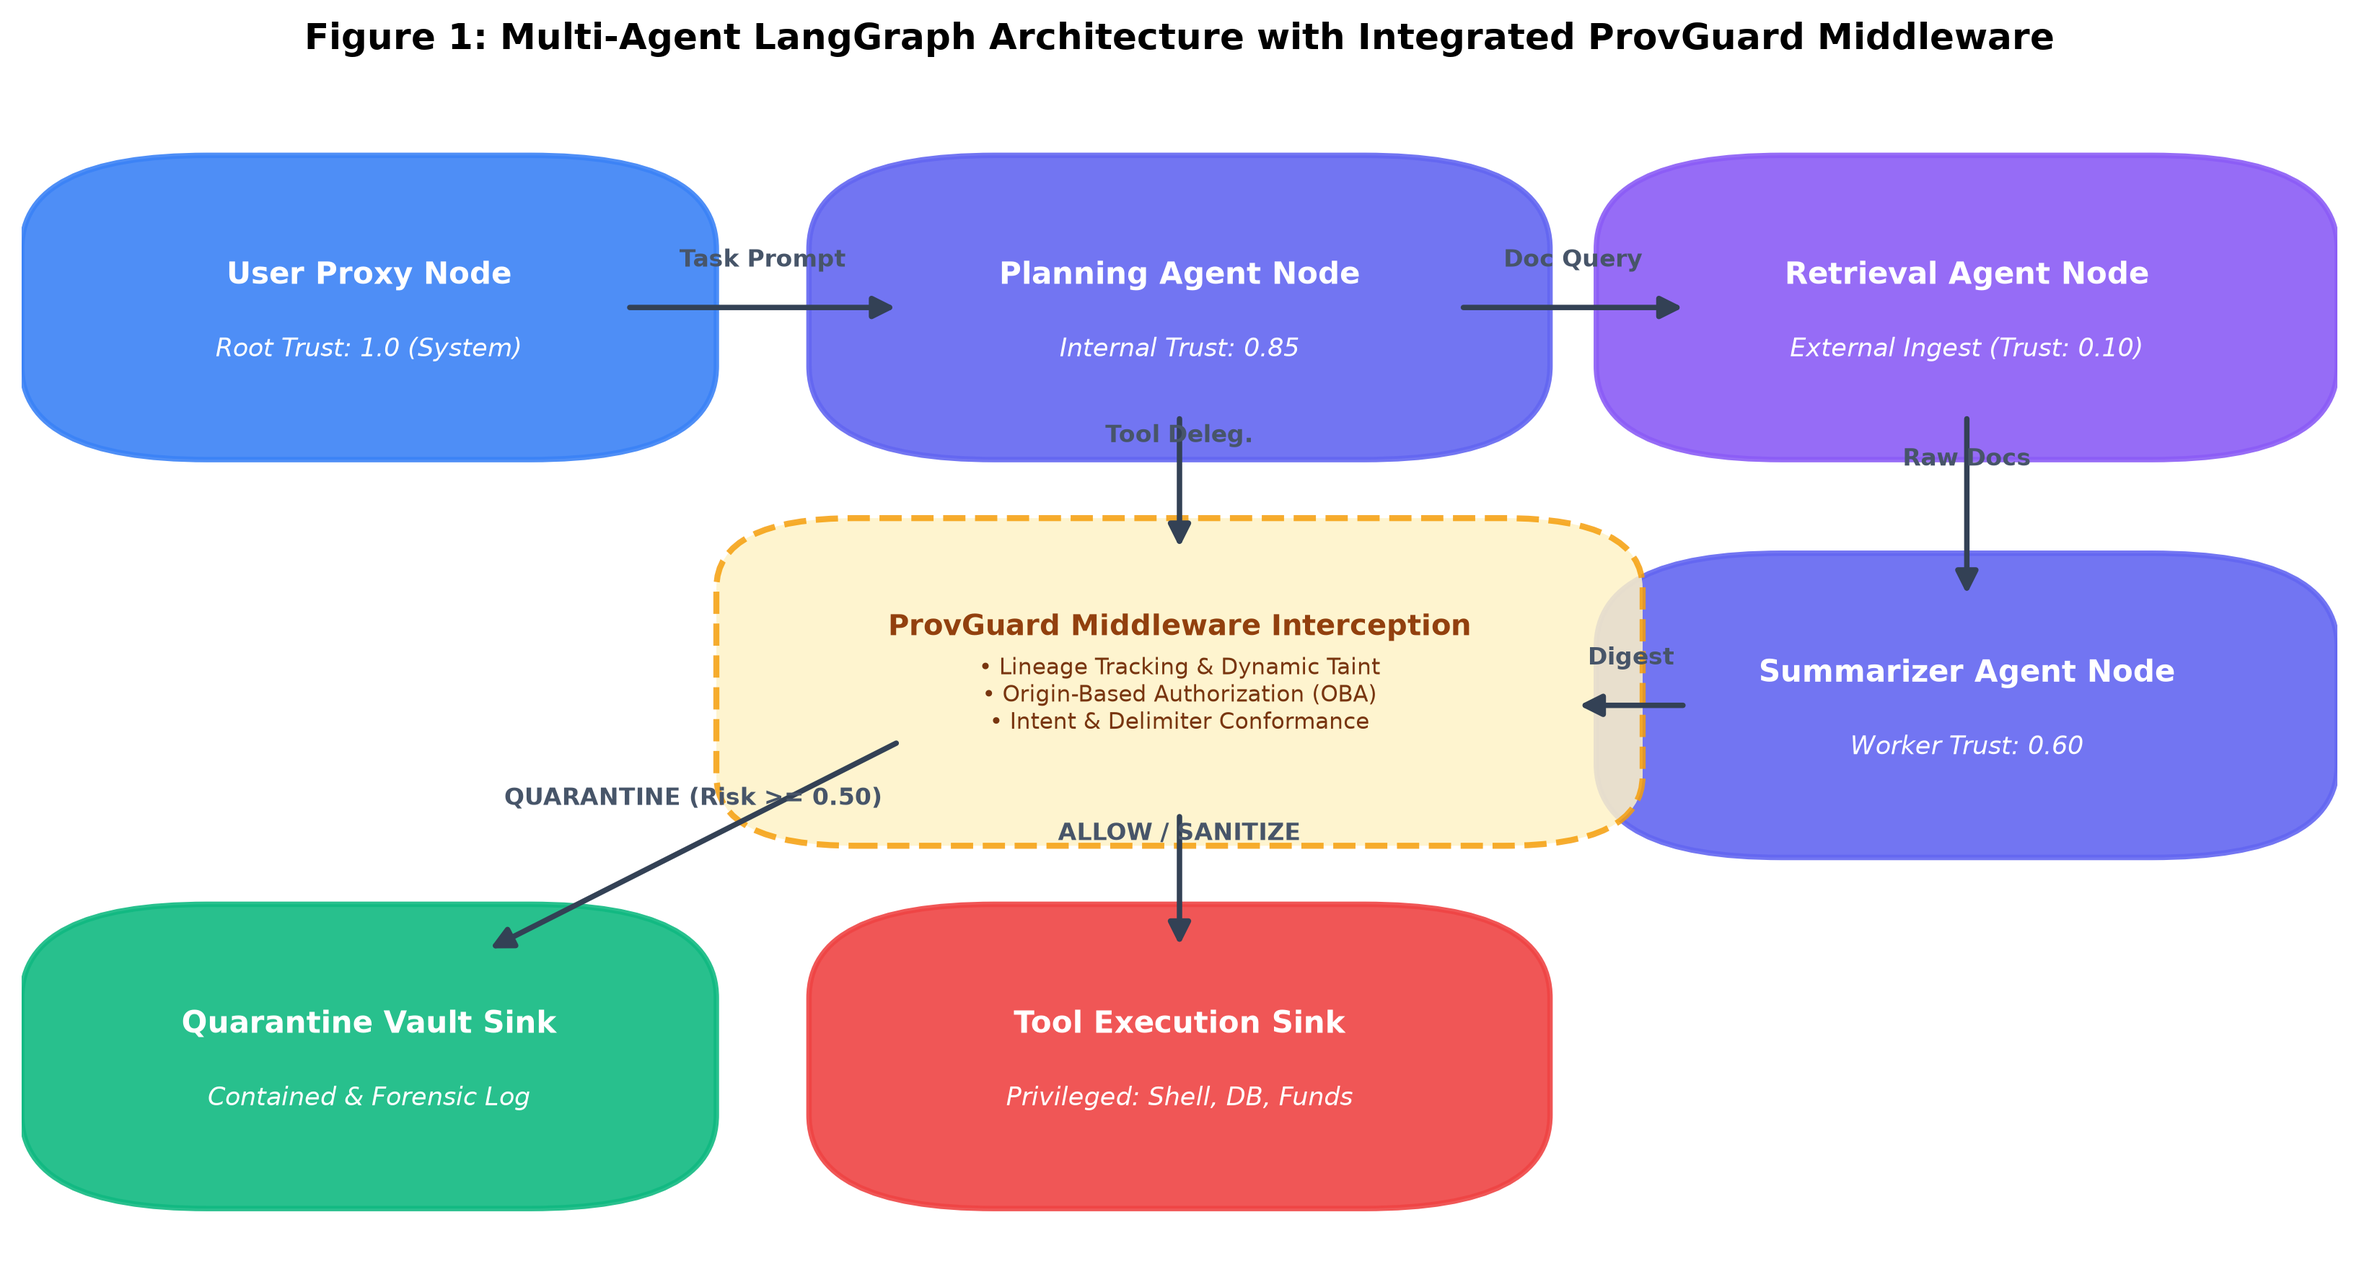
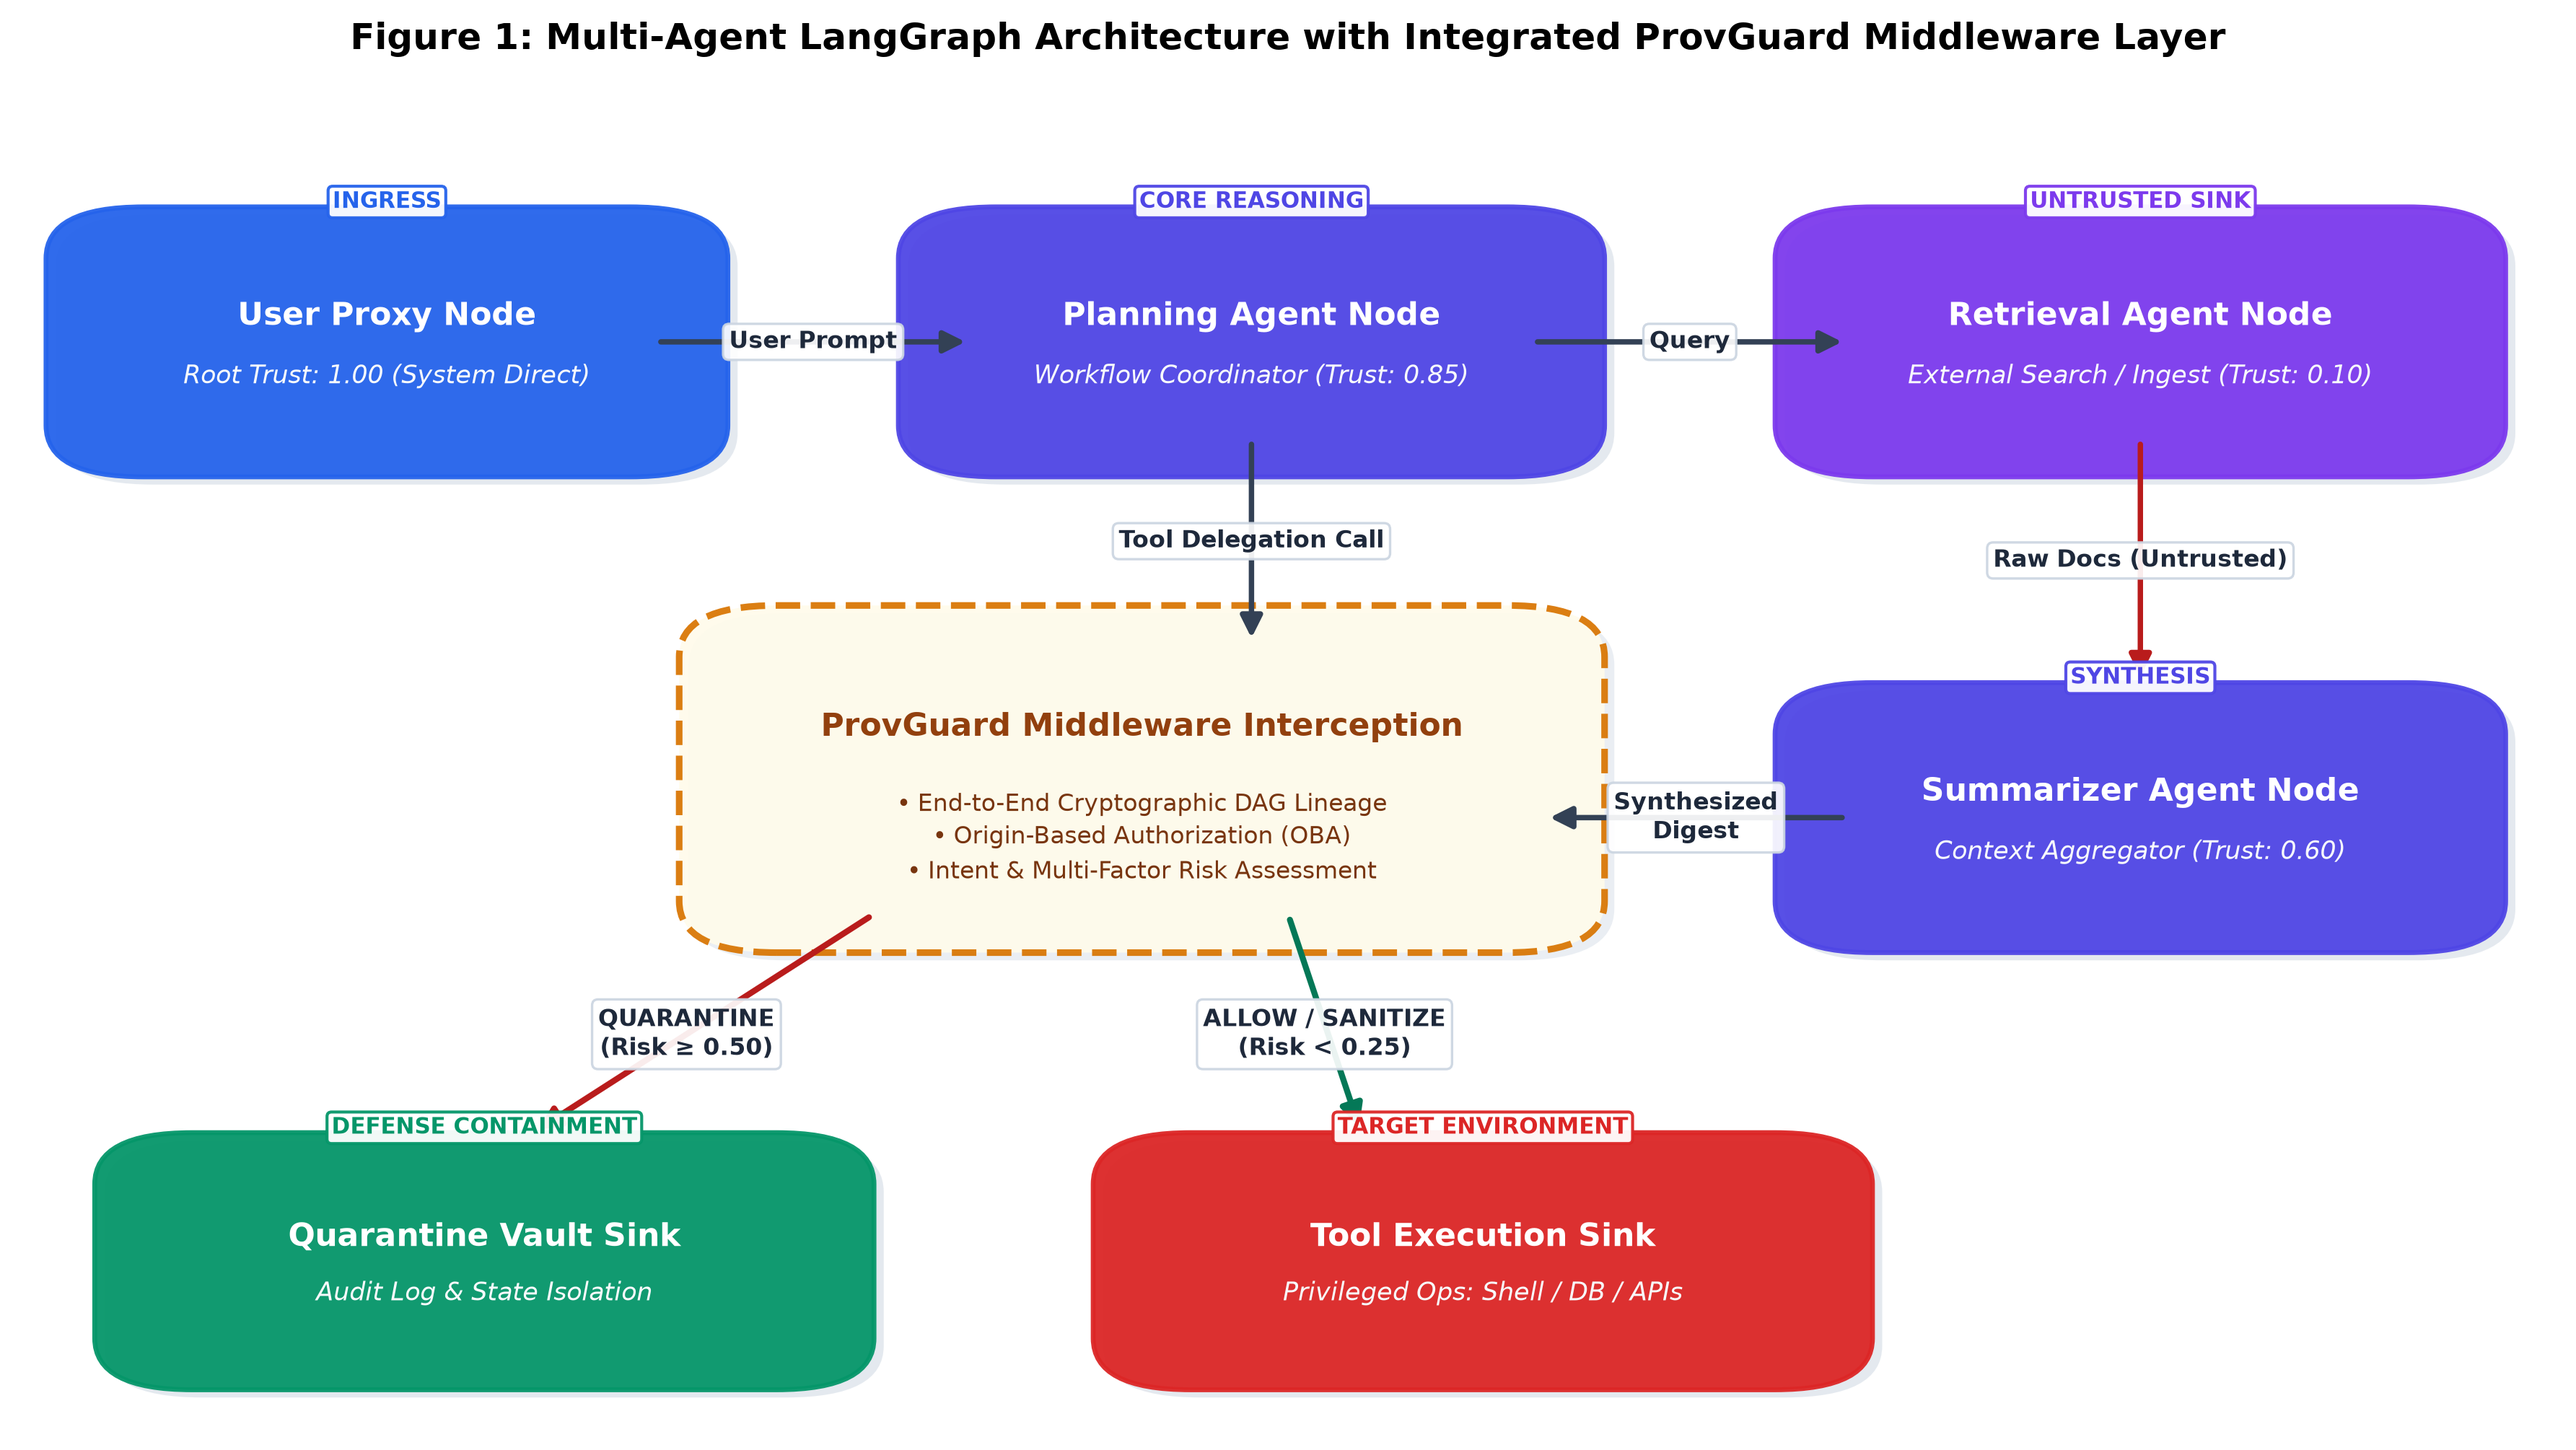
feat(figures): polish Figure 1 architecture diagram with publication-grade styling and zero overlaps

diff --git a/experiments/generate_figures.py b/experiments/generate_figures.py
@@ -46,73 +46,109 @@ plt.rcParams.update({
 
 def generate_figure_1_architecture(output_dir: str):
     """Figure 1: LangGraph Workflow & ProvGuard Middleware Layer."""
-    fig, ax = plt.subplots(figsize=(11, 6))
+    fig, ax = plt.subplots(figsize=(12, 6.8))
     ax.axis("off")
+    ax.set_xlim(-0.02, 1.02)
+    ax.set_ylim(-0.02, 1.02)
 
-    # Colors
-    c_user = "#3b82f6"       # Blue
-    c_agent = "#6366f1"      # Indigo
-    c_retrieval = "#8b5cf6"  # Purple
-    c_sink = "#ef4444"       # Red
-    c_quarantine = "#10b981" # Green
-    c_middleware = "#f59e0b" # Amber
+    # Academic Palette
+    c_user = "#2563eb"        # Royal Blue
+    c_agent = "#4f46e5"       # Indigo
+    c_retrieval = "#7c3aed"   # Deep Purple
+    c_sink = "#dc2626"        # Crimson Red
+    c_quarantine = "#059669"  # Emerald Green
+    c_middleware = "#d97706"  # Warm Amber
 
-    # Draw Nodes
-    def draw_box(x, y, w, h, title, subtitle, color, text_color="white"):
+    def draw_box(x, y, w, h, title, subtitle, color, text_color="white", badge=None):
+        # Drop shadow effect
+        shadow = patches.FancyBboxPatch(
+            (x + 0.004, y - 0.006), w, h,
+            boxstyle="round,pad=0.03,rounding_size=0.04",
+            linewidth=0, facecolor="#cbd5e1", alpha=0.5, zorder=2
+        )
+        ax.add_patch(shadow)
+
+        # Main node patch
         rect = patches.FancyBboxPatch(
             (x, y), w, h,
-            boxstyle="round,pad=0.04,rounding_size=0.08",
-            linewidth=1.8, edgecolor=color, facecolor=color, alpha=0.9
+            boxstyle="round,pad=0.03,rounding_size=0.04",
+            linewidth=1.6, edgecolor=color, facecolor=color, alpha=0.95, zorder=3
         )
         ax.add_patch(rect)
-        ax.text(x + w/2, y + h*0.65, title, color=text_color, fontweight="bold", ha="center", va="center", fontsize=10)
-        ax.text(x + w/2, y + h*0.30, subtitle, color=text_color, style="italic", ha="center", va="center", fontsize=8.5)
+        
+        ax.text(x + w / 2, y + h * 0.63, title, color=text_color, fontweight="bold", 
+                ha="center", va="center", fontsize=10.5, zorder=4)
+        ax.text(x + w / 2, y + h * 0.32, subtitle, color="#f8fafc", style="italic", 
+                ha="center", va="center", fontsize=8.5, zorder=4)
+        if badge:
+            badge_box = dict(boxstyle="round,pad=0.2", facecolor="white", edgecolor=color, alpha=0.95, lw=1.0)
+            ax.text(x + w / 2, y + h + 0.025, badge, color=color, fontsize=7.5, fontweight="bold",
+                    ha="center", va="bottom", bbox=badge_box, zorder=5)
 
-    def draw_arrow(x1, y1, x2, y2, label=""):
+    def draw_arrow(x1, y1, x2, y2, label="", label_pos=(0.5, 0.5), color="#334155", lw=1.8, style="-|>"):
         ax.annotate(
             "", xy=(x2, y2), xytext=(x1, y1),
-            arrowprops=dict(arrowstyle="-|>", color="#334155", lw=1.8, mutation_scale=15)
+            arrowprops=dict(arrowstyle=style, color=color, lw=lw, mutation_scale=15),
+            zorder=3
         )
         if label:
-            mx, my = (x1 + x2)/2, (y1 + y2)/2
-            ax.text(mx, my + 0.03, label, fontsize=8, ha="center", va="bottom", color="#475569", fontweight="bold")
+            mx = x1 + (x2 - x1) * label_pos[0]
+            my = y1 + (y2 - y1) * label_pos[1]
+            bbox_props = dict(boxstyle="round,pad=0.25", facecolor="white", edgecolor="#cbd5e1", alpha=0.92, lw=0.8)
+            ax.text(mx, my, label, fontsize=8, ha="center", va="center", color="#1e293b", 
+                    fontweight="bold", bbox=bbox_props, zorder=5)
 
-    # Nodes positioning
-    draw_box(0.04, 0.72, 0.22, 0.18, "User Proxy Node", "Root Trust: 1.0 (System)", c_user)
-    draw_box(0.38, 0.72, 0.24, 0.18, "Planning Agent Node", "Internal Trust: 0.85", c_agent)
-    draw_box(0.72, 0.72, 0.24, 0.18, "Retrieval Agent Node", "External Ingest (Trust: 0.10)", c_retrieval)
-    draw_box(0.72, 0.38, 0.24, 0.18, "Summarizer Agent Node", "Worker Trust: 0.60", c_agent)
+    # 1. Top Workflow Nodes
+    draw_box(0.02, 0.75, 0.22, 0.15, "User Proxy Node", "Root Trust: 1.00 (System Direct)", c_user, badge="INGRESS")
+    draw_box(0.37, 0.75, 0.23, 0.15, "Planning Agent Node", "Workflow Coordinator (Trust: 0.85)", c_agent, badge="CORE REASONING")
+    draw_box(0.73, 0.75, 0.24, 0.15, "Retrieval Agent Node", "External Search / Ingest (Trust: 0.10)", c_retrieval, badge="UNTRUSTED SINK")
 
-    # Privileged Tool Sink & Quarantine Sink
-    draw_box(0.38, 0.08, 0.24, 0.18, "Tool Execution Sink", "Privileged: Shell, DB, Funds", c_sink)
-    draw_box(0.04, 0.08, 0.22, 0.18, "Quarantine Vault Sink", "Contained & Forensic Log", c_quarantine)
+    # 2. Worker / Synthesis Node
+    draw_box(0.73, 0.38, 0.24, 0.15, "Summarizer Agent Node", "Context Aggregator (Trust: 0.60)", c_agent, badge="SYNTHESIS")
 
-    # Middleware Layer Box
+    # 3. ProvGuard Middleware Container Box
+    mw_shadow = patches.FancyBboxPatch(
+        (0.284, 0.374), 0.32, 0.21,
+        boxstyle="round,pad=0.03,rounding_size=0.04",
+        linewidth=0, facecolor="#cbd5e1", alpha=0.4, zorder=2
+    )
+    ax.add_patch(mw_shadow)
     mw_box = patches.FancyBboxPatch(
-        (0.33, 0.38), 0.34, 0.22,
-        boxstyle="round,pad=0.03,rounding_size=0.06",
-        linewidth=2.0, linestyle="--", edgecolor=c_middleware, facecolor="#fef3c7", alpha=0.85
+        (0.28, 0.38), 0.32, 0.21,
+        boxstyle="round,pad=0.03,rounding_size=0.04",
+        linewidth=2.2, linestyle="--", edgecolor=c_middleware, facecolor="#fffbeb", alpha=0.95, zorder=3
     )
     ax.add_patch(mw_box)
-    ax.text(0.50, 0.53, "ProvGuard Middleware Interception", color="#92400e", fontweight="bold", ha="center", fontsize=9.5)
-    ax.text(0.50, 0.45, "• Lineage Tracking & Dynamic Taint\n• Origin-Based Authorization (OBA)\n• Intent & Delimiter Conformance",
-            color="#78350f", ha="center", fontsize=7.5)
+    ax.text(0.44, 0.525, "ProvGuard Middleware Interception", color="#92400e", 
+            fontweight="bold", ha="center", va="center", fontsize=10.5, zorder=4)
+    ax.text(0.44, 0.44, 
+            "• End-to-End Cryptographic DAG Lineage\n• Origin-Based Authorization (OBA)\n• Intent & Multi-Factor Risk Assessment",
+            color="#78350f", ha="center", va="center", fontsize=8, linespacing=1.35, zorder=4)
 
-    # Arrows between nodes
-    draw_arrow(0.26, 0.81, 0.38, 0.81, "Task Prompt")
-    draw_arrow(0.62, 0.81, 0.72, 0.81, "Doc Query")
-    draw_arrow(0.84, 0.72, 0.84, 0.56, "Raw Docs")
-    draw_arrow(0.72, 0.47, 0.67, 0.47, "Digest")
-    draw_arrow(0.50, 0.72, 0.50, 0.60, "Tool Deleg.")
+    # 4. Sinks (Bottom Layer)
+    draw_box(0.04, 0.04, 0.26, 0.14, "Quarantine Vault Sink", "Audit Log & State Isolation", c_quarantine, badge="DEFENSE CONTAINMENT")
+    draw_box(0.45, 0.04, 0.26, 0.14, "Tool Execution Sink", "Privileged Ops: Shell / DB / APIs", c_sink, badge="TARGET ENVIRONMENT")
 
-    # Middleware Outgoing Paths
-    draw_arrow(0.50, 0.38, 0.50, 0.26, "ALLOW / SANITIZE")
-    draw_arrow(0.38, 0.44, 0.20, 0.26, "QUARANTINE (Risk >= 0.50)")
+    # Arrows - Agent Workflow
+    draw_arrow(0.24, 0.825, 0.37, 0.825, "User Prompt", label_pos=(0.5, 0.5))
+    draw_arrow(0.60, 0.825, 0.73, 0.825, "Query", label_pos=(0.5, 0.5))
+    draw_arrow(0.85, 0.75, 0.85, 0.56, "Raw Docs (Untrusted)", label_pos=(0.5, 0.5), color="#b91c1c")
+    
+    # Digest arrow between Summarizer and Middleware (box ends at 0.60, Summarizer starts at 0.73)
+    draw_arrow(0.73, 0.455, 0.605, 0.455, "Synthesized\nDigest", label_pos=(0.5, 0.5))
+    draw_arrow(0.485, 0.75, 0.485, 0.59, "Tool Delegation Call", label_pos=(0.5, 0.5))
 
-    ax.set_title("Figure 1: Multi-Agent LangGraph Architecture with Integrated ProvGuard Middleware", pad=12, fontweight="bold")
+    # Arrows - Middleware Decision Paths
+    draw_arrow(0.50, 0.38, 0.53, 0.21, "ALLOW / SANITIZE\n(Risk < 0.25)", label_pos=(0.5, 0.55), color="#047857", lw=2.0)
+    draw_arrow(0.33, 0.38, 0.19, 0.21, "QUARANTINE\n(Risk ≥ 0.50)", label_pos=(0.55, 0.55), color="#b91c1c", lw=2.0)
+
+    # Title & Metadata Caption
+    ax.set_title("Figure 1: Multi-Agent LangGraph Architecture with Integrated ProvGuard Middleware Layer", 
+                 pad=14, fontweight="bold", fontsize=12)
+
     plt.tight_layout()
     out_path = os.path.join(output_dir, "figure_1_langgraph_workflow_architecture.png")
-    plt.savefig(out_path)
+    plt.savefig(out_path, dpi=300)
     plt.close()
     print(f"[✓] Generated: {out_path}")
 
